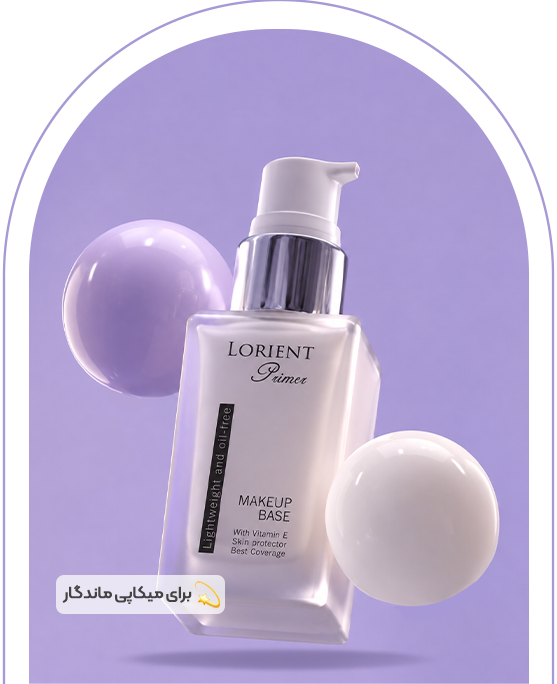
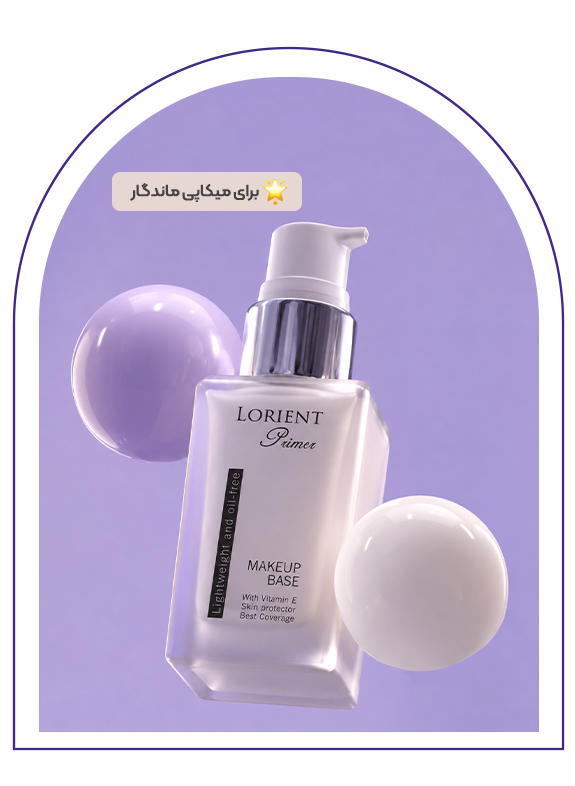
final edit on size of slider elements

diff --git a/src/styles.css b/src/styles.css
@@ -1466,34 +1466,48 @@ textarea::placeholder { font-size: var(--type-caption); color: var(--stone-400);
   aspect-ratio: auto;
   min-height: 500px;
   display: grid;
-  grid-template-columns: minmax(0, 1fr) minmax(280px, .9fr) minmax(280px, .9fr);
-  align-items: center;
-  gap: clamp(20px, 3vw, 48px);
-  padding: clamp(20px, 3vw, 38px);
+  grid-template-columns: repeat(3, minmax(0, 1fr));
+  align-items: stretch;
+  gap: clamp(16px, 2.2vw, 36px);
+  padding: 0;
   border-radius: var(--radius-xl);
   background: rgb(255 255 255 / 78%);
   cursor: grab;
   direction: ltr;
 }
 .hero-showcase__left,
-.hero-showcase__middle { min-width: 0; display: grid; place-items: center; }
+.hero-showcase__middle {
+  min-width: 0;
+  min-height: 0;
+  display: grid;
+  place-items: stretch;
+  align-self: stretch;
+}
 .hero-showcase__left,
 .hero-showcase__middle,
 .hero-showcase__copy { direction: rtl; }
 .hero-banner__image .hero-showcase__left img {
   width: 100%;
-  height: auto;
-  max-height: 390px;
+  height: 100%;
+  max-height: none;
   object-fit: contain;
+  object-position: center;
 }
 .hero-banner__image .hero-showcase__middle img {
-  width: auto;
+  width: 100%;
   max-width: 100%;
-  height: 440px;
+  height: 100%;
+  max-height: none;
   object-fit: contain;
+  object-position: center;
 }
-.hero-showcase__copy { align-self: center; text-align: right; }
-.hero-showcase__copy h1 { margin: 10px 0 12px; font-size: var(--type-display); line-height: 1.55; }
+.hero-showcase__copy {
+  align-self: center;
+  text-align: right;
+  padding-block: clamp(20px, 3vw, 38px);
+  padding-inline-end: clamp(20px, 3vw, 38px);
+}
+.hero-showcase__copy h1 { margin: 10px 0 12px; font-size: 32px; line-height: 1.55; }
 .hero-showcase__copy p { max-width: 38ch; margin: 0; color: var(--ink-800); line-height: 2; }
 .hero-showcase__copy .button { margin-top: 22px; }
 .hero-showcase__middle { animation: hero-fade-up 900ms cubic-bezier(.16, 1, .3, 1) both; }
@@ -1517,7 +1531,7 @@ textarea::placeholder { font-size: var(--type-caption); color: var(--stone-400);
   .hero-showcase__middle { grid-column: 1; grid-row: 2; min-height: 0; height: 100%; overflow: hidden; }
   .hero-showcase__left { display: none; }
   .hero-banner__image .hero-showcase__middle img { display: block; width: 100%; height: 100%; min-height: 0; max-height: 100%; object-fit: contain; }
-  .hero-showcase__copy h1 { margin: 0 0 6px; font-size: var(--type-heading); }
+  .hero-showcase__copy h1 { margin: 0 0 6px; font-size: 23px; }
   .hero-showcase__copy p { font-size: var(--type-caption); line-height: 1.8; }
   .hero-showcase__copy .button { width: max-content; min-height: 40px; margin-top: 12px; padding: 8px 14px; font-size: var(--type-caption); }
 }
@@ -1541,7 +1555,7 @@ textarea::placeholder { font-size: var(--type-caption); color: var(--stone-400);
   .hero-showcase__middle { grid-column: 1; grid-row: 2; min-height: 0; height: 100%; overflow: hidden; }
   .hero-showcase__left { display: none; }
   .hero-banner__image .hero-showcase__middle img { width: 100%; height: 100%; max-height: 100%; object-fit: contain; }
-  .hero-showcase__copy h1 { font-size: var(--type-heading); }
+  .hero-showcase__copy h1 { font-size: 23px; }
   .hero-showcase__copy p { font-size: var(--type-caption); line-height: 1.75; }
   .hero-showcase__copy .button { width: max-content; justify-content: center; }
 }
